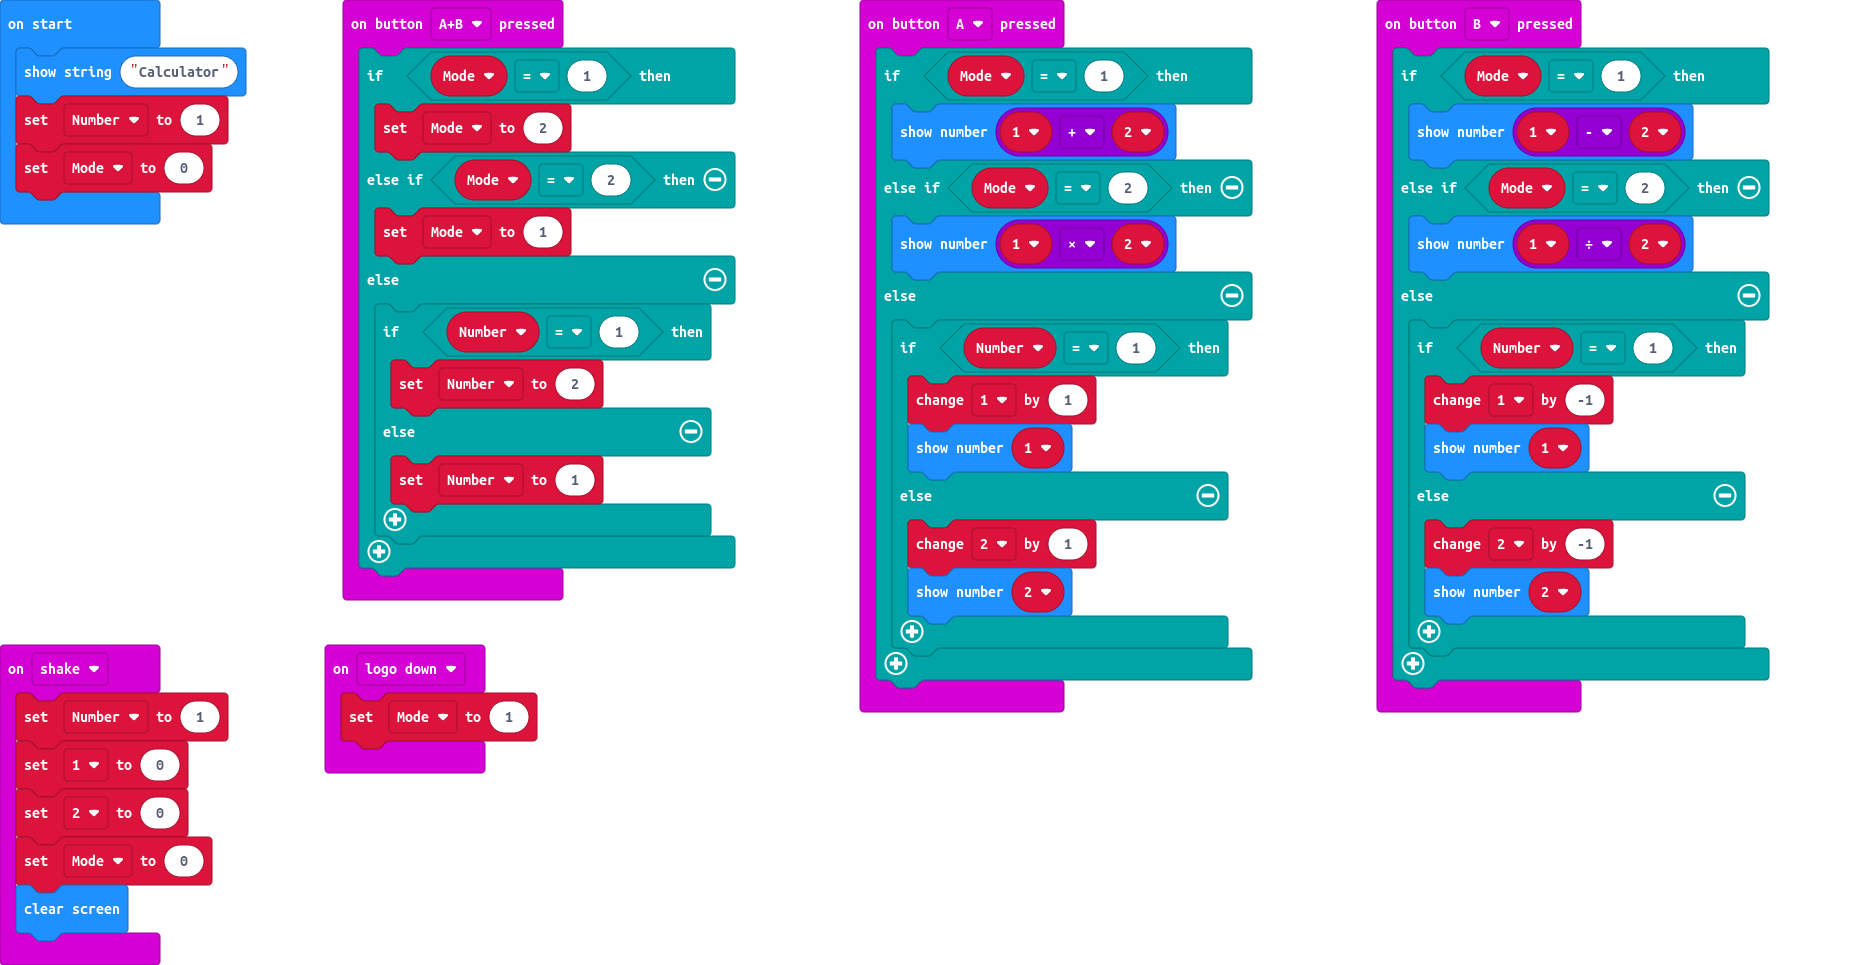
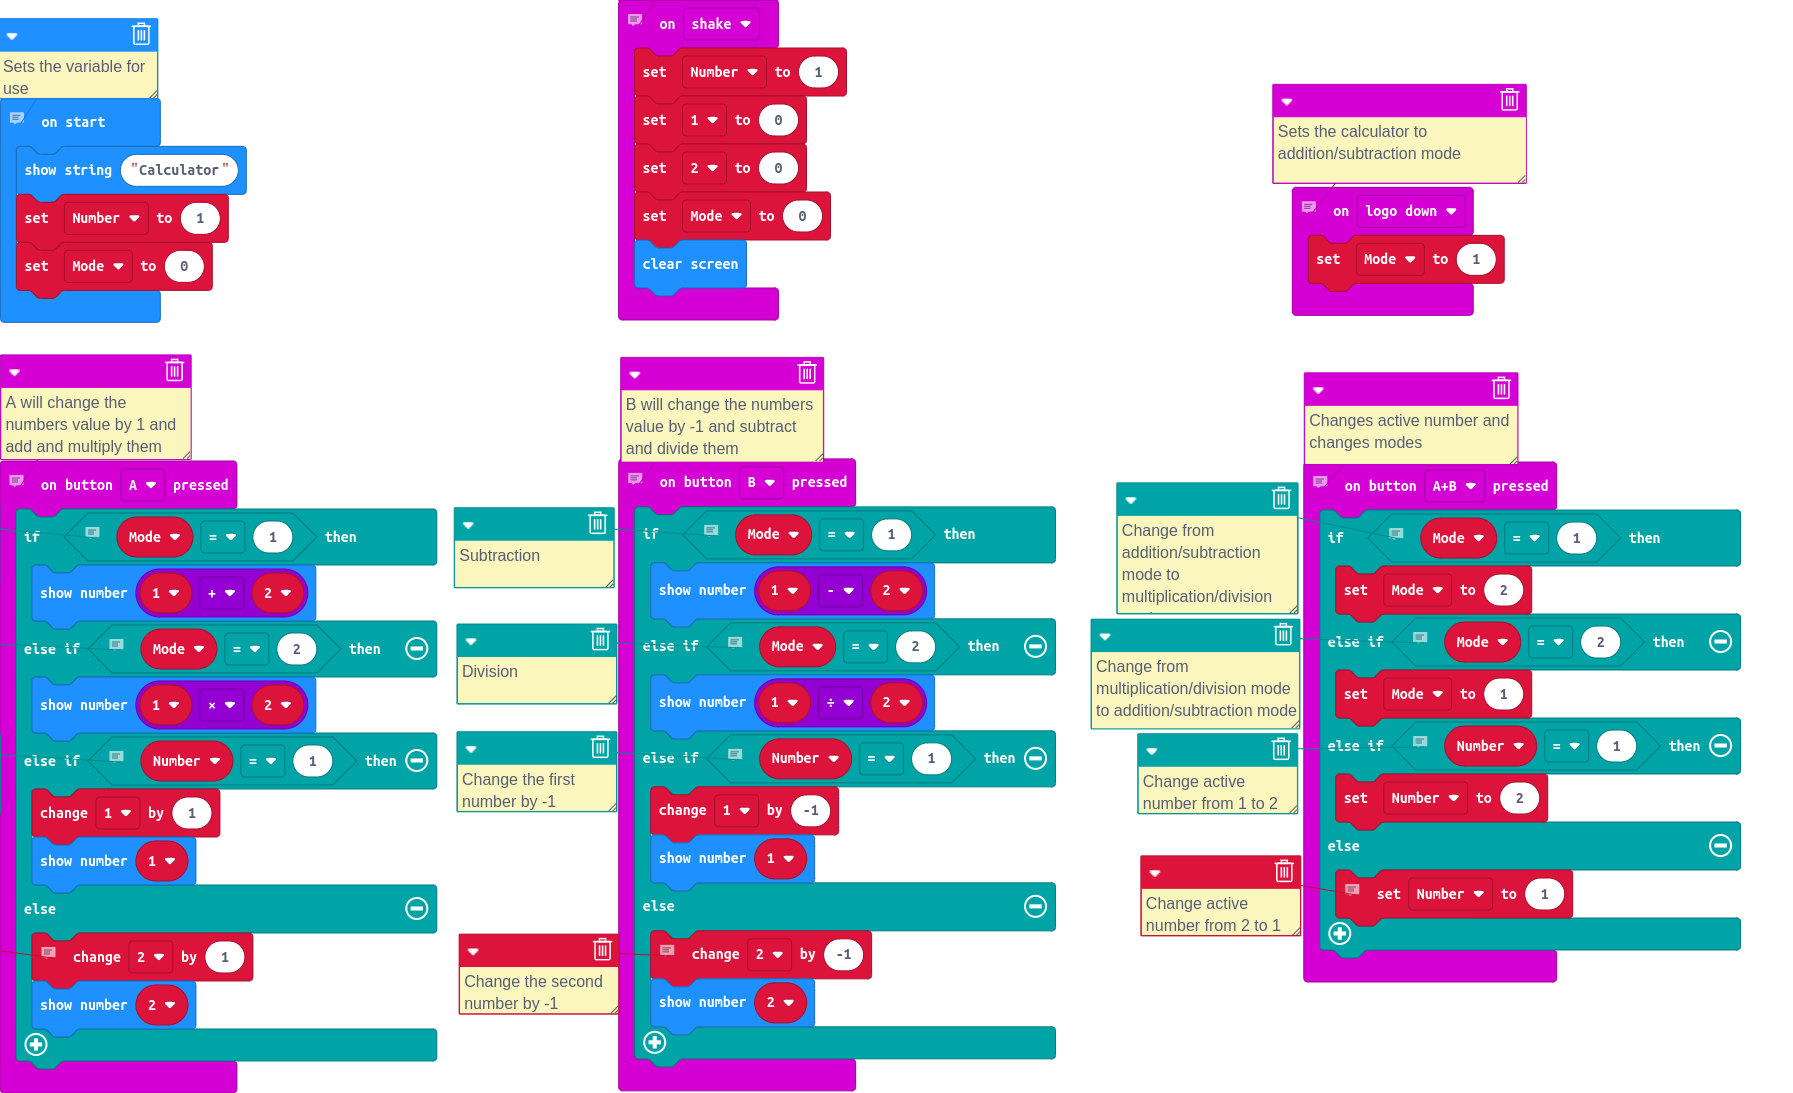
Update pxt.json, main.blocks, main.ts, main.py

diff --git a/main.ts b/main.ts
@@ -1,46 +1,56 @@
+// A will change the numbers value by 1 and add and multiply them
 input.onButtonPressed(Button.A, function () {
+    // Addition
+    // Multiplication
+    // Change the first number by 1
     if (Mode == 1) {
         basic.showNumber(_1 + _2)
     } else if (Mode == 2) {
         basic.showNumber(_1 * _2)
+    } else if (Number2 == 1) {
+        _1 += 1
+        basic.showNumber(_1)
     } else {
-        if (Number2 == 1) {
-            _1 += 1
-            basic.showNumber(_1)
-        } else {
-            _2 += 1
-            basic.showNumber(_2)
-        }
+        // Change the second number by 1
+        _2 += 1
+        basic.showNumber(_2)
     }
 })
+// Changes active number and changes modes
 input.onButtonPressed(Button.AB, function () {
+    // Change from addition/subtraction mode to multiplication/division mode
+    // Change from multiplication/division mode to addition/subtraction mode
+    // Change active number from 1 to 2
     if (Mode == 1) {
         Mode = 2
     } else if (Mode == 2) {
         Mode = 1
+    } else if (Number2 == 1) {
+        Number2 = 2
     } else {
-        if (Number2 == 1) {
-            Number2 = 2
-        } else {
-            Number2 = 1
-        }
+        // Change active number from 2 to 1
+        Number2 = 1
     }
 })
+// B will change the numbers value by -1 and subtract and divide them
 input.onButtonPressed(Button.B, function () {
+    // Subtraction
+    // Division
+    // Change the first number by -1
     if (Mode == 1) {
         basic.showNumber(_1 - _2)
     } else if (Mode == 2) {
         basic.showNumber(_1 / _2)
+    } else if (Number2 == 1) {
+        _1 += -1
+        basic.showNumber(_1)
     } else {
-        if (Number2 == 1) {
-            _1 += -1
-            basic.showNumber(_1)
-        } else {
-            _2 += -1
-            basic.showNumber(_2)
-        }
+        // Change the second number by -1
+        _2 += -1
+        basic.showNumber(_2)
     }
 })
+// Resets the program
 input.onGesture(Gesture.Shake, function () {
     Number2 = 1
     _1 = 0
@@ -48,9 +58,11 @@ input.onGesture(Gesture.Shake, function () {
     Mode = 0
     basic.clearScreen()
 })
+// Sets the calculator to addition/subtraction mode
 input.onGesture(Gesture.LogoDown, function () {
     Mode = 1
 })
+// Sets the variable for use
 let Mode = 0
 let Number2 = 0
 let _2 = 0

diff --git a/main.py b/main.py
@@ -1,0 +1,61 @@
+def on_button_pressed_a():
+    global _1, _2
+    if Mode == 1:
+        basic.show_number(_1 + _2)
+    elif Mode == 2:
+        basic.show_number(_1 * _2)
+    elif Number2 == 1:
+        _1 += 1
+        basic.show_number(_1)
+    else:
+        _2 += 1
+        basic.show_number(_2)
+input.on_button_pressed(Button.A, on_button_pressed_a)
+
+def on_button_pressed_ab():
+    global Mode, Number2
+    if Mode == 1:
+        Mode = 2
+    elif Mode == 2:
+        Mode = 1
+    elif Number2 == 1:
+        Number2 = 2
+    else:
+        Number2 = 1
+input.on_button_pressed(Button.AB, on_button_pressed_ab)
+
+def on_button_pressed_b():
+    global _1, _2
+    if Mode == 1:
+        basic.show_number(_1 - _2)
+    elif Mode == 2:
+        basic.show_number(_1 / _2)
+    elif Number2 == 1:
+        _1 += -1
+        basic.show_number(_1)
+    else:
+        _2 += -1
+        basic.show_number(_2)
+input.on_button_pressed(Button.B, on_button_pressed_b)
+
+def on_gesture_shake():
+    global Number2, _1, _2, Mode
+    Number2 = 1
+    _1 = 0
+    _2 = 0
+    Mode = 0
+    basic.clear_screen()
+input.on_gesture(Gesture.SHAKE, on_gesture_shake)
+
+def on_gesture_logo_down():
+    global Mode
+    Mode = 1
+input.on_gesture(Gesture.LOGO_DOWN, on_gesture_logo_down)
+
+_2 = 0
+_1 = 0
+Mode = 0
+Number2 = 0
+basic.show_string("Calculator")
+Number2 = 1
+Mode = 0
